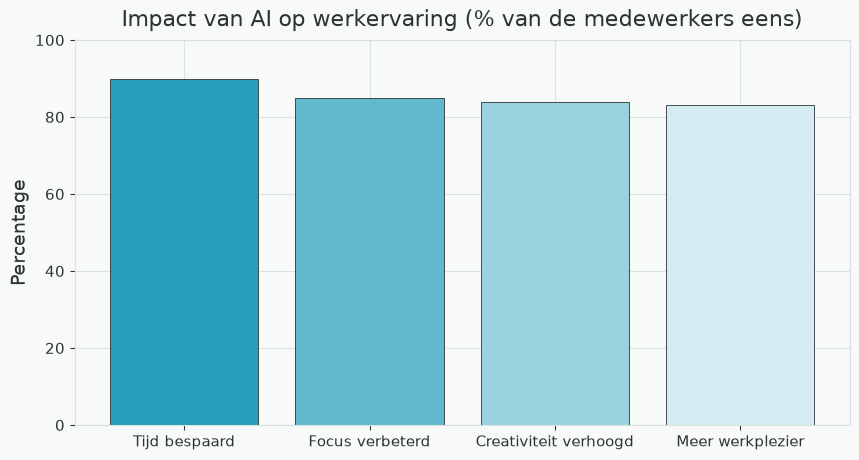
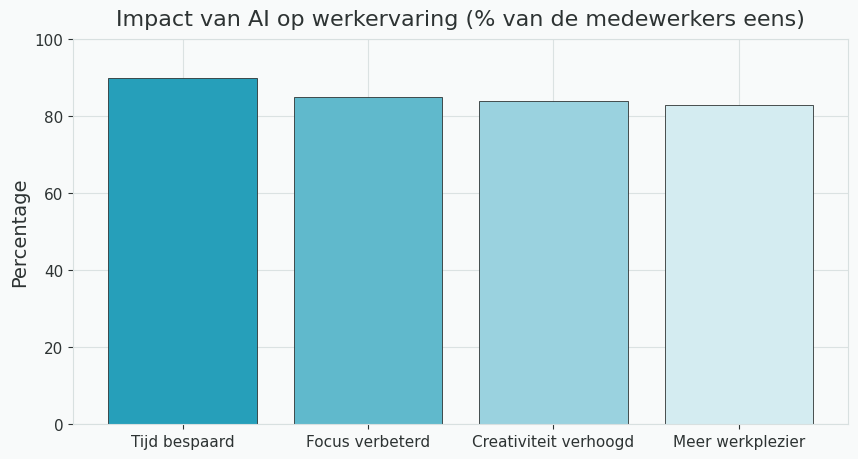
using own plot config

diff --git a/CCPlots/implementation/EmployeeAIAdoption.py b/CCPlots/implementation/EmployeeAIAdoption.py
@@ -1,28 +1,28 @@
-import matplotlib.pyplot as plt
+"""
+Bar chart measuring employee agreement with four AI-impact statements
+(Time saved, Focus improved, Creativity boosted, More enjoyment).
+Bar colour uses a primary-pale gradient to encode the value magnitude.
 
+Figures
+-------
+- ``employee_ai_adoption.png`` / ``_NL.png`` — horizontal bar chart
+
+Configuration
+-------------
+``CCPlots/plot_configs/employee_ai_adoption.json``
+"""
 from CCPlots.PlotExample import PlotExample
-from CCPlots.config import BITROOT_PALETTE, apply_bitroot_style, output_path, probability_color
+from CCPlots.config import BITROOT_PALETTE, probability_color
 
-TEXT_BY_LOCALE = {
-    "en": {
-        "title": "Impact of AI on Work Experience (% of employees agreeing)",
-        "ylabel": "Percentage",
-        "categories": ["Time saved", "Focus improved", "Creativity boosted", "More enjoyment"],
-    },
-    "nl": {
-        "title": "Impact van AI op werkervaring (% van de medewerkers eens)",
-        "ylabel": "Percentage",
-        "categories": ["Tijd bespaard", "Focus verbeterd", "Creativiteit verhoogd", "Meer werkplezier"],
-    },
-}
 
 class EmployeeAIAdoption(PlotExample):
+
+    CONFIG_KEY = "employee_ai_adoption"
 
     def main(self):
         values = [90, 85, 84, 83]
 
-        for locale, labels in (("nl", TEXT_BY_LOCALE["nl"]), ("en", TEXT_BY_LOCALE["en"])):
-            fname = f"employee_ai_adoption{'_NL' if locale == 'nl' else ''}.png"
+        for _locale, labels, suffix in self.iter_locales():
             categories = labels["categories"]
 
             n = len(values)
@@ -30,19 +30,16 @@ class EmployeeAIAdoption(PlotExample):
                                             "primary", "primary_pale")
                           for i in range(n)]
 
-            fig, ax = plt.subplots(figsize=(10, 5),
-                                   facecolor=BITROOT_PALETTE["background"])
-            ax.set_facecolor(BITROOT_PALETTE["background"])
+            fig, ax = self.create_figure()
             ax.bar(categories, values, color=bar_colors,
                    edgecolor=BITROOT_PALETTE["text"], linewidth=0.6)
 
             ax.set_ylim(0, 100)
             ax.set_ylabel(labels["ylabel"], color=BITROOT_PALETTE["text"])
             ax.set_title(labels["title"], color=BITROOT_PALETTE["text"], pad=10)
-            apply_bitroot_style(ax)
+            self.apply_style(ax)
 
-            fig.savefig(output_path(fname), bbox_inches="tight", pad_inches=0.1)
-            plt.close(fig)
+            self.save_figure(fig, "default", suffix=suffix)
 
 
 if __name__ == '__main__':
